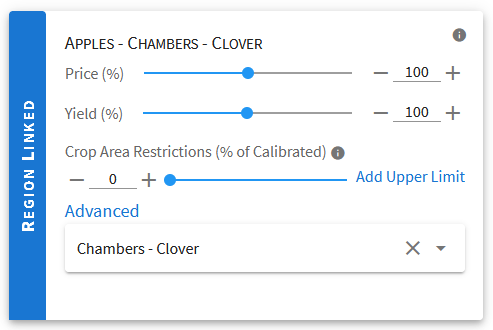
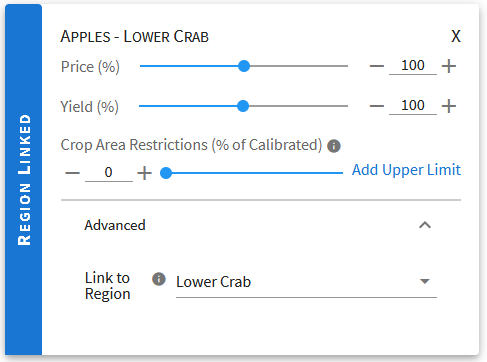
Region-linked crop documentation, changelog, and cross-references.

diff --git a/source/MakeModelRun/crop_modifications.rst b/source/MakeModelRun/crop_modifications.rst
@@ -96,7 +96,26 @@ Region-Linked Crops
     on the card apply only to the crop when grown in that region.
 
 Typically, adding crop modification cards for specific crops results in changes to the values for that crop in every
-region the crop is grown in.
+region the crop is grown in. Crop cards can be limited so that the card's parameters only apply in a single region through
+a process called "region linking". In the "Advanced" section of a crop card, you may choose the region the crop card
+should apply to under the "Link to Region" selection item. After choosing a region, the card will include a blue
+banner on the left to signify that it is a region-linked card, and the title will change to include the crop name as
+well as the region name.
+
+Once created, all parameters on the card will only apply in the specific region. If you wish to create separate settings
+for other regions for the same crop, add the original crop card again and specify another region on it. If you wish
+to specify separate settings for the crop in all other regions the crop is grown in after creating region-linked cards,
+simply add the main crop card again. Take care that the list of cards is sorted after every card is added, so when
+region-linking a card, double check that the crop card you change next is the one you intend to adjust.
+
+For example,
+if you wish to provide separate settings for All Crops, Apples statewide, and Apples in region A and region B, you would
+add the Apples card, link it to region A and change the settings for that card. Then, add the Apples card again and link
+it to region B, then change the settings on that card to apply to region B. Finally, add the Apples card a third time
+and change the settings to apply to all regions in the model area that grow Apples *except* for regions A and B.
+
+If you change your mind and wish to remove the region-link, simply remove the entire card. You may still add the main
+crop commodity's card both before and after removal of a region-linked card.
 
 .. _AdditionalReadingCropModificationsSection:
 

diff --git a/source/Changelog/2021_06/2021_06.rst b/source/Changelog/2021_06/2021_06.rst
@@ -1,0 +1,26 @@
+Visual Changelog - June 2021
+============================
+
+.. toctree::
+   :maxdepth: 1
+   :caption: OpenAg Changes for June 2021:
+
+Provide Region-Level Crop Commodity Details When Creating Models
+------------------------------------------------------------------
+.. figure:: ../../MakeModelRun/region_linked_crop.*
+
+    You can now provide region-specific crop inputs from crop cards. See :ref:`RegionLinkedCropsSection` for more
+    details.
+
+Bugfix: Max Land Area Proportion shows as Zero in Input viewer
+-----------------------------------------------------------------
+The application included a bug where, when no upper limit was provided for a specific crop's land area constraint,
+it was saved as an upper limit of 0. This is cosmetic and was ignored by the model. Some model runs may still show
+upper limits on land area of 0, but their results remain correct. New model runs will correctly indicate "no limit"
+in these instances.
+
+Gross Revenue Sums Available in all Model Areas
+------------------------------------------------
+Previously, sums of gross revenue across an entire model run were only available when |project_name| included
+employment data for a model area. Now they are available on the Summary tab of the results viewer for all model areas.
+The sums take into account active filters, allowing you to see the value for groups of regions, crops, etc.

diff --git a/source/MakeModelRun/model_input_hierarchy.rst b/source/MakeModelRun/model_input_hierarchy.rst
@@ -44,7 +44,7 @@ _______________________________
 
 Crop Modification Hierarchy
 ____________________________________
-#. Region-linked crop value:
+#. :ref:`Region-linked crop value <RegionLinkedCropsSection>`:
     Specific crop cards that have been linked to a single region take the highest priority for crop parameters and will
     be used when present.
 #. Specific crop value:

diff --git a/source/Changelog/changelog.rst b/source/Changelog/changelog.rst
@@ -11,4 +11,5 @@ Changelogs are structured by month, so you can click into any month to see detai
     :maxdepth: 2
     :caption: Changes by Month:
 
+    2021_06/2021_06.rst
     2021_05/2021_05.rst
